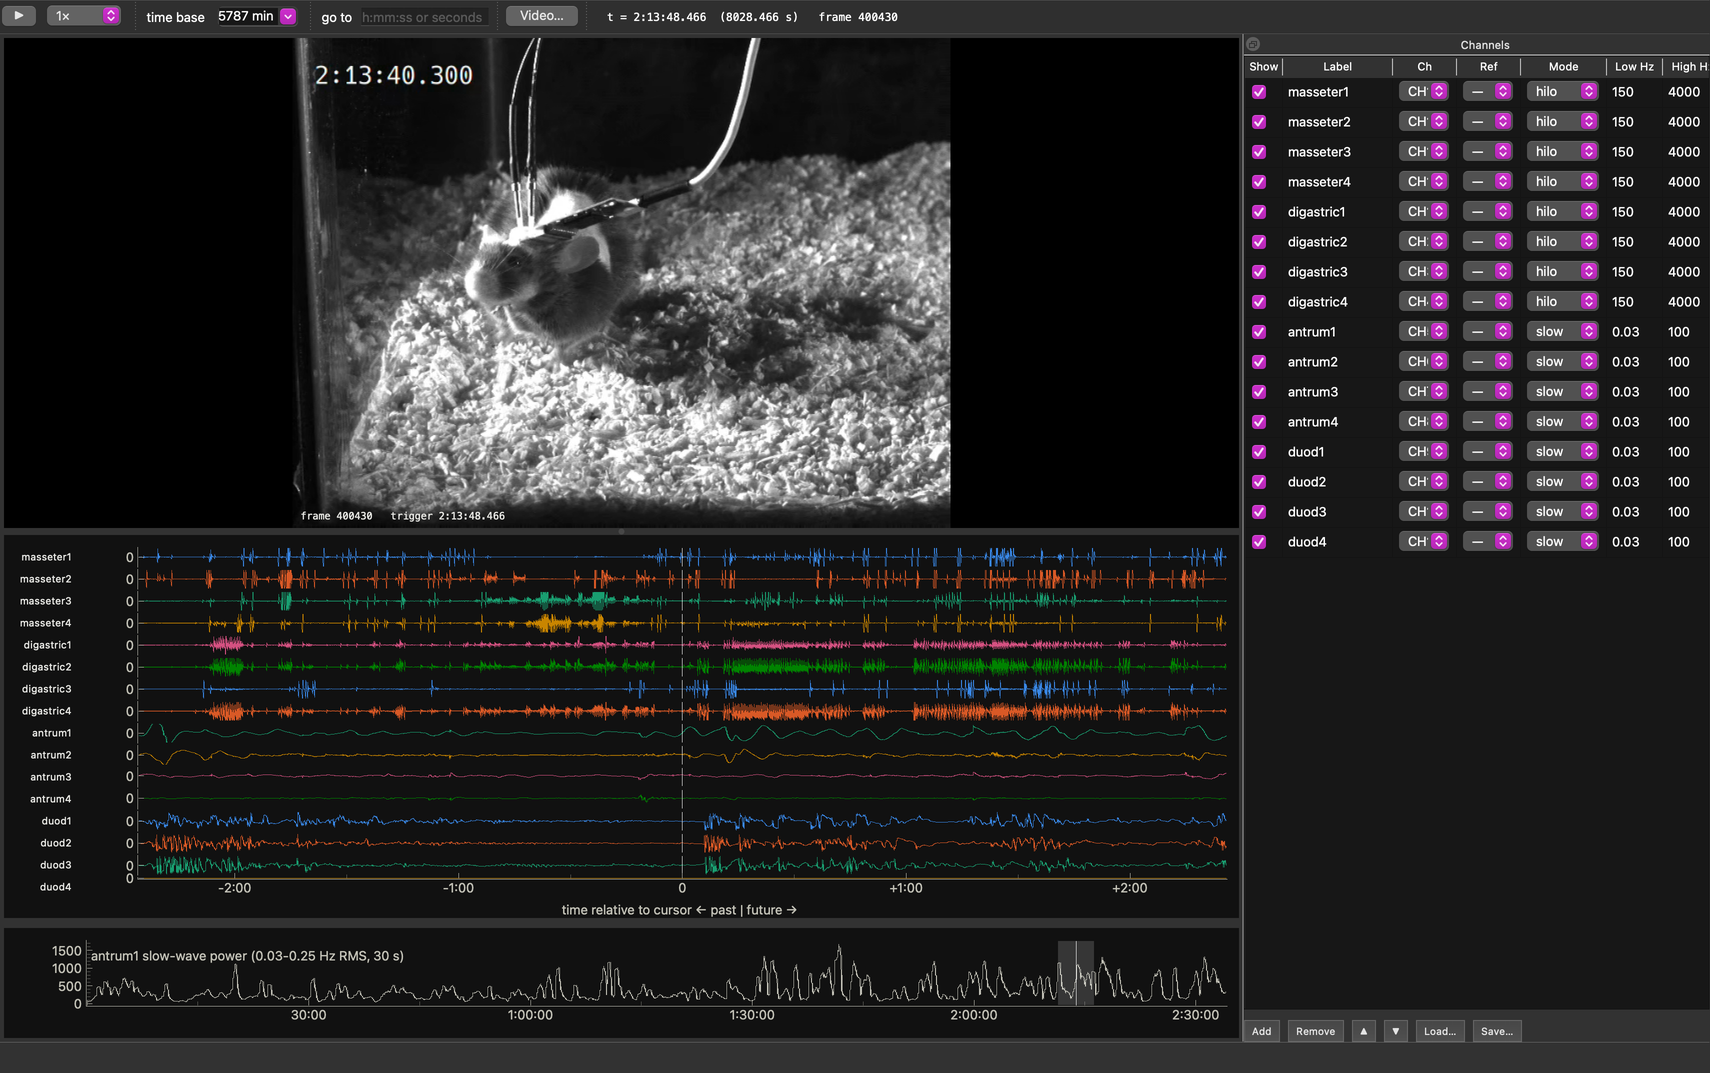
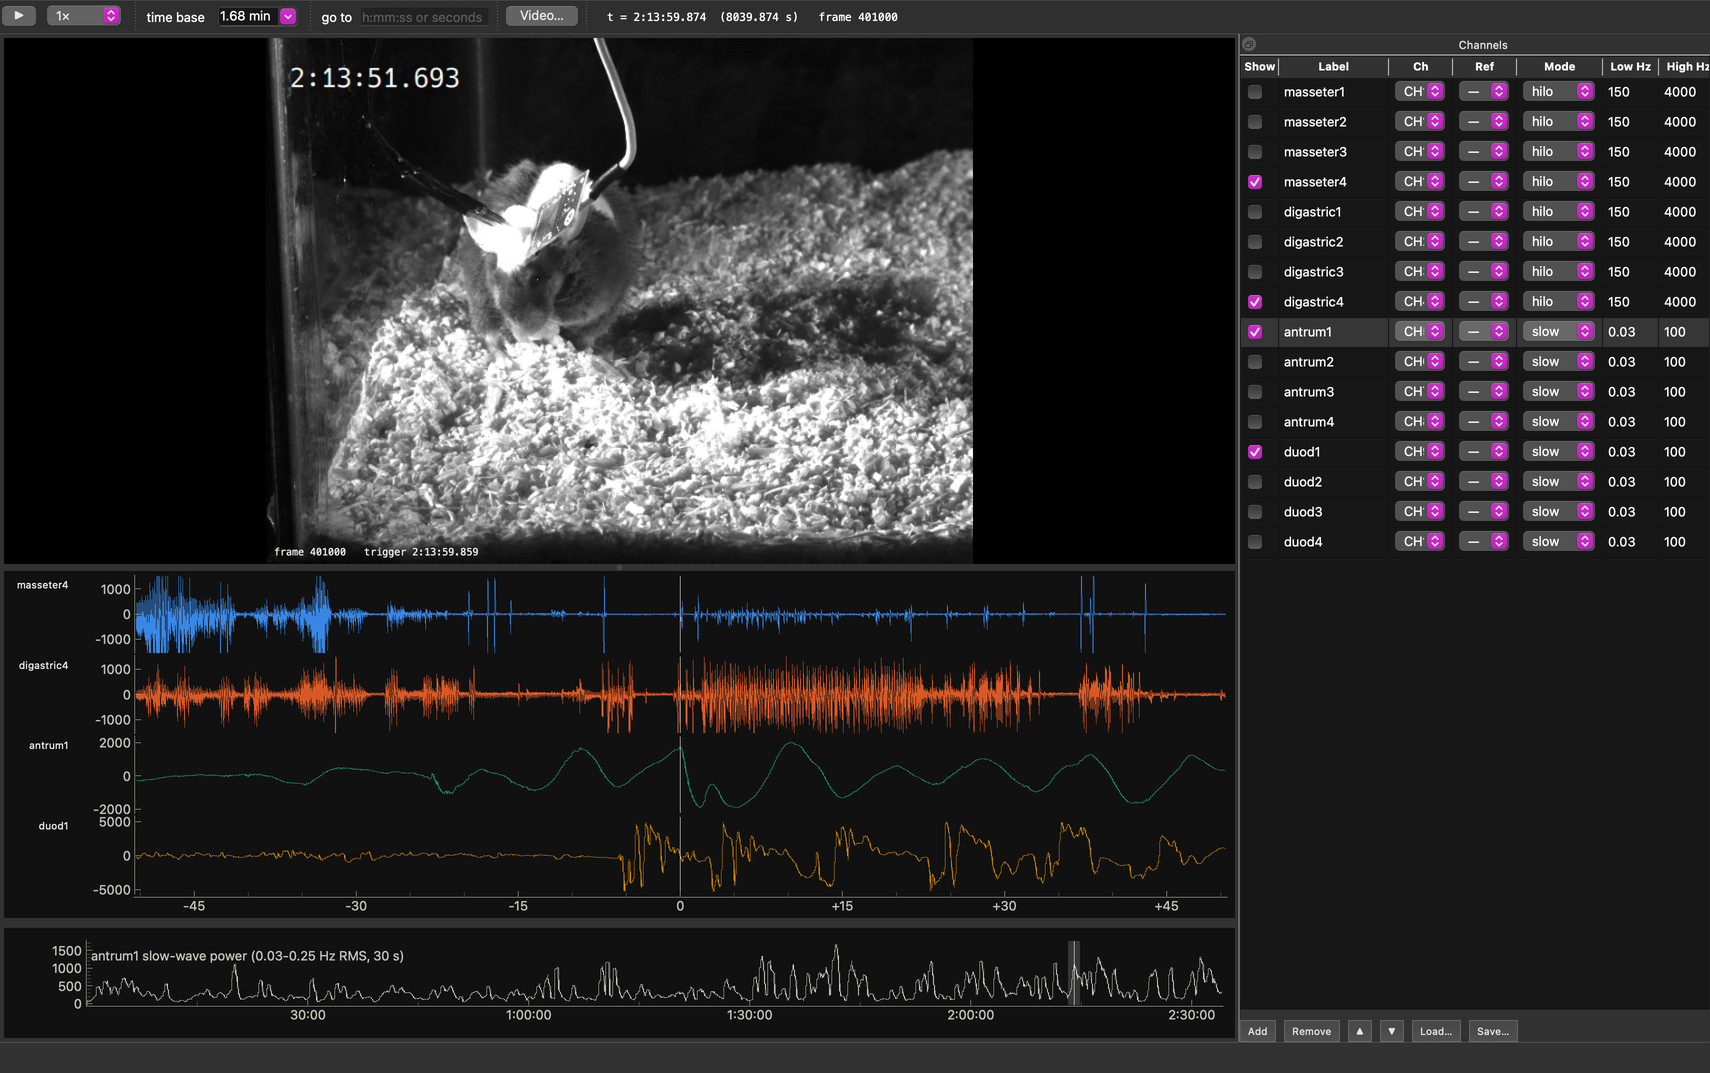
README: new screenshot

diff --git a/README.md b/README.md
@@ -5,11 +5,12 @@ the camera trigger. Scroll and zoom smoothly from milliseconds to whole multi-ho
 0.1–300× speed, and set filters per channel. A Python API also renders synchronized clips (video on top,
 data scrolling underneath) for talks and papers.
 
-![syncview on macOS: video frame-locked to 16 EMG and GI slow-wave channels, a channel table, and a
+![syncview on macOS: video frame-locked to EMG and GI slow-wave traces, a channel table, and a
 whole-session slow-wave power overview](docs/screenshot.png)
 
-*A 2.5-hour session on macOS: masseter and digastric EMG, antrum and duodenum slow waves, and the
-antrum's slow-wave power over the whole session (bottom; the shaded box is the current view).*
+*A 2.5-hour session on macOS, 4 of 16 channels shown: masseter and digastric EMG, antrum and duodenum
+slow waves, and the antrum's slow-wave power over the whole session (bottom; the shaded box is the
+current view).*
 
 MIT-licensed (see `LICENSE`). Written mostly by an AI model; see [Provenance](#provenance-who-wrote-this-and-notes-for-whoever-changes-it-next).
 
